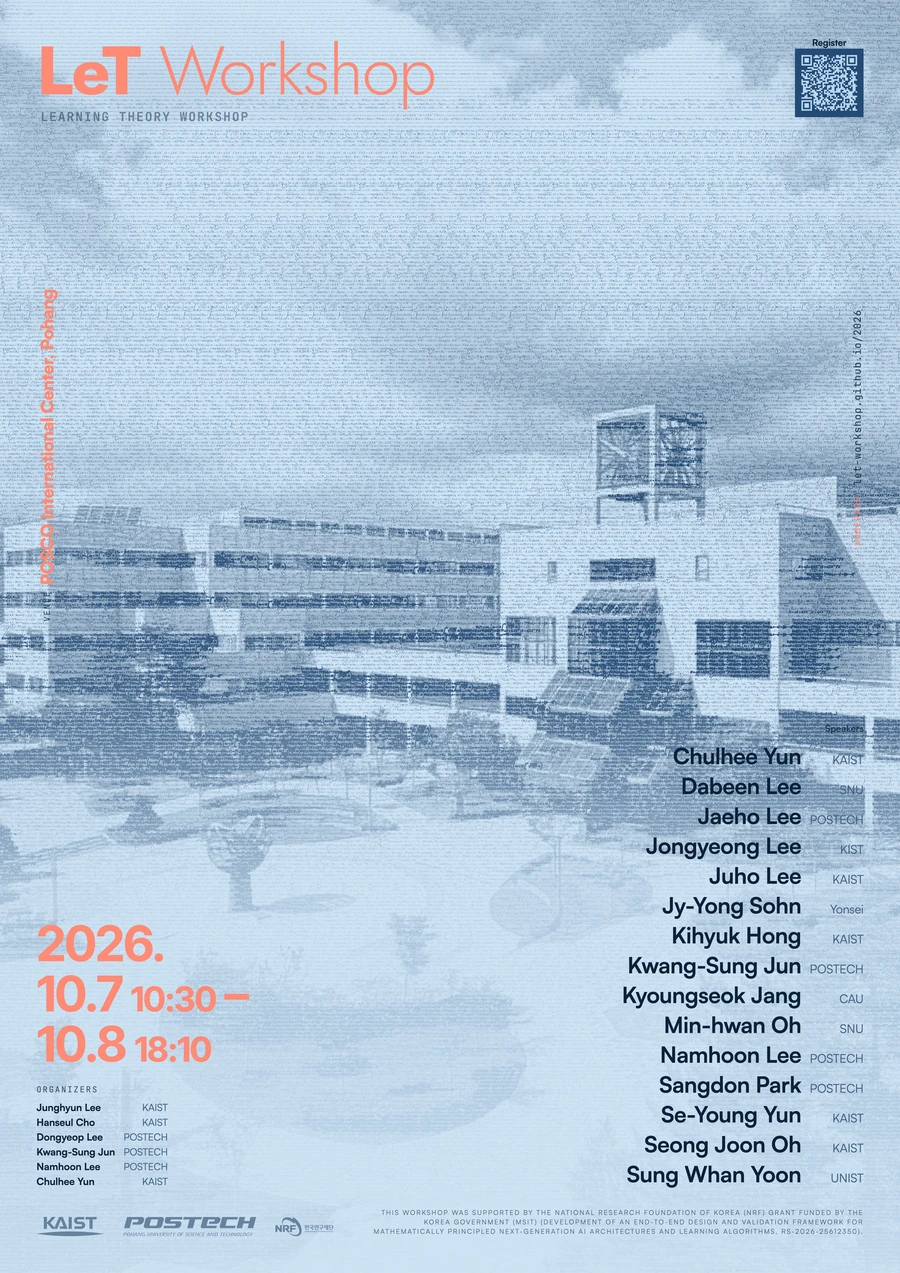
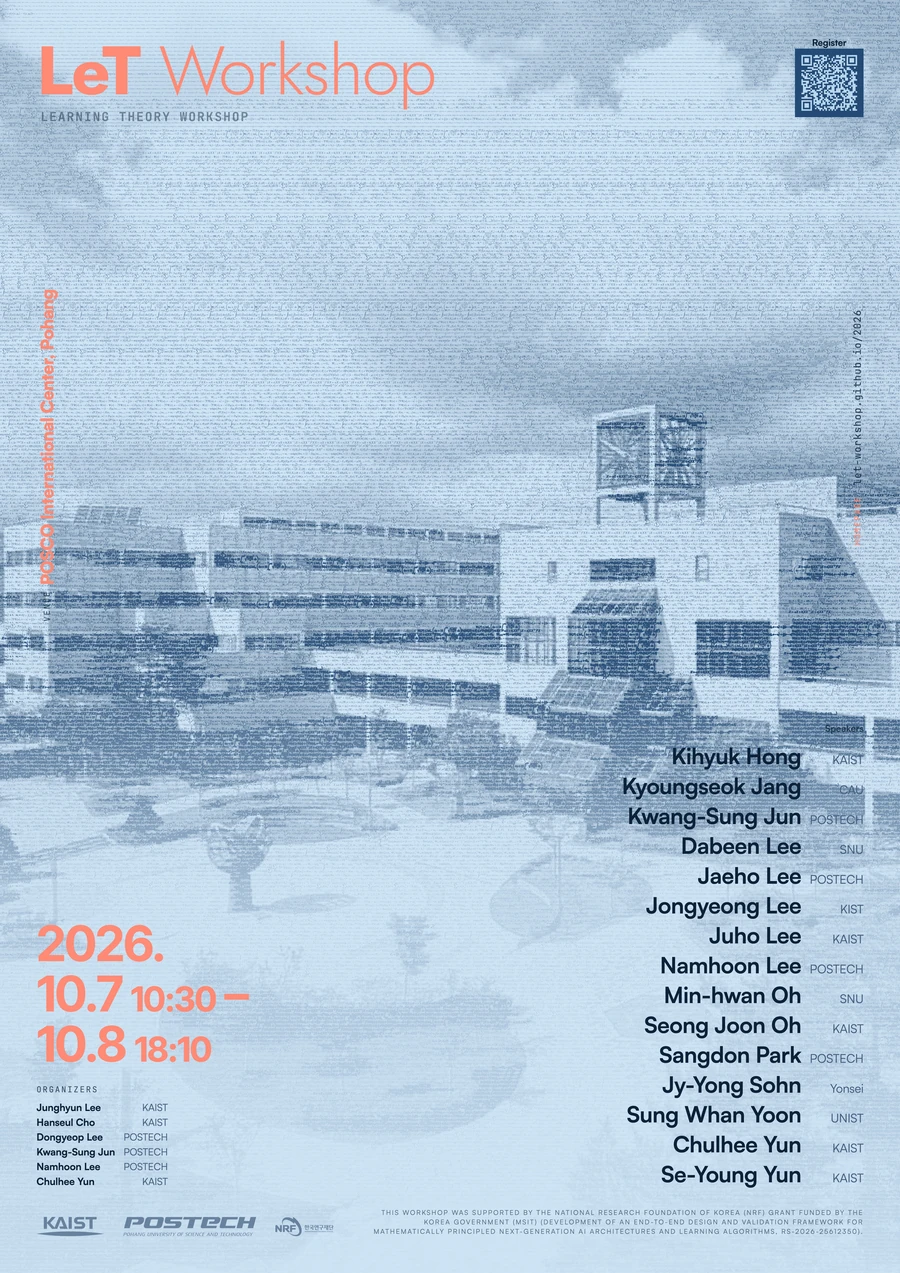
The express terminal really does have the 207, and the name loses its capitals
Two stop lists and the terminal's own page all agree the 207 does not call
there — and they are all right, and all beside the point. It reaches POSTECH
from that terminal anyway: you walk 573m to 홈플러스 and catch it. Reading stop
lists is what produces the answer "there is no bus, take a taxi", which is what
this said.

So it says what the journey is: eleven minutes on foot, fifteen on the 207,
fourteen more on foot to the door. Forty-two door to door, twenty-five of them
walking, against about twenty in a taxi — both worth knowing, and both there.

And the name is Learning Theory Workshop rather than LEarning Theory workshop.
The odd capitals were spelling the acronym out inside the name; the mark says
LeT on its own now, and the sheet still picks those letters out of the line
under it.

Changed region(s): [[0.6844, 0.5821, 0.9644, 0.9497], [0.9022, 0.6434, 0.9644, 0.7353]]

diff --git a/tools/poster.py b/tools/poster.py
@@ -237,12 +237,11 @@ def cutout_svg(source, shadow, highlight, width, height, contrast=0.95):
 def acronym_html(full_name, mark):
     """The full name with the letters that make the acronym picked out.
 
-    LeT is spelled LEarning Theory workshop — the capitals inside the first
-    word are not a slip, they are what makes the E the second letter. Setting
-    the name in capitals, which is what the sheets were doing, throws that
-    away: it becomes three words in caps and the acronym is a coincidence
-    again. In mixed case with the letters in the accent, the name shows its own
-    working.
+    The mark is LeT and the name is Learning Theory Workshop; the letters that
+    make the one out of the other are picked out in the accent. Setting the
+    name in capitals, which is what the sheets were doing, throws that away —
+    it becomes three words in caps and the acronym is a coincidence again. In
+    mixed case with those letters coloured, the name shows its own working.
     """
     want = list(mark.upper())
     out = []
@@ -2185,7 +2184,14 @@ def main(art_path, out_path, layout="stack", photo=None, cutout=None, duotone=No
     # down the column.
     people = [p2 for d in sessions(program) for b in d["blocks"] for p2 in b["people"]]
     seen, ordered = set(), []
-    for p2 in sorted(people, key=lambda x: x["name"].lower()):
+    # By family name, which on these is the last word — "Kwang-Sung Jun" files
+    # under J. Sorting on the whole string instead files it under K, which is
+    # alphabetical but not the alphabet anyone looks a speaker up in.
+    def filed_as(x):
+        parts = x["name"].split()
+        return (parts[-1].lower(), " ".join(parts[:-1]).lower()) if parts else ("", "")
+
+    for p2 in sorted(people, key=filed_as):
         if p2["name"] in seen:
             continue
         seen.add(p2["name"])
@@ -2367,9 +2373,6 @@ def main(art_path, out_path, layout="stack", photo=None, cutout=None, duotone=No
         logos=logo_row([h["name"] for h in site["sponsors"]["logos"]], PALETTE["cool"])
               if site.get("sponsors") else "",
         acronym_name=acronym_html(site["full_name"], mark),
-        # site.yml spells it "LEarning Theory workshop" so the letters of the
-        # acronym can be picked out; set as a plain line that casing reads as a
-        # typo, so it is normalised back here.
         long_name=esc(site["full_name"].title()),
         # The sheet says which one this is; the banners and the badges do not,
         # because a first edition is news on a poster and clutter on a name tag.
